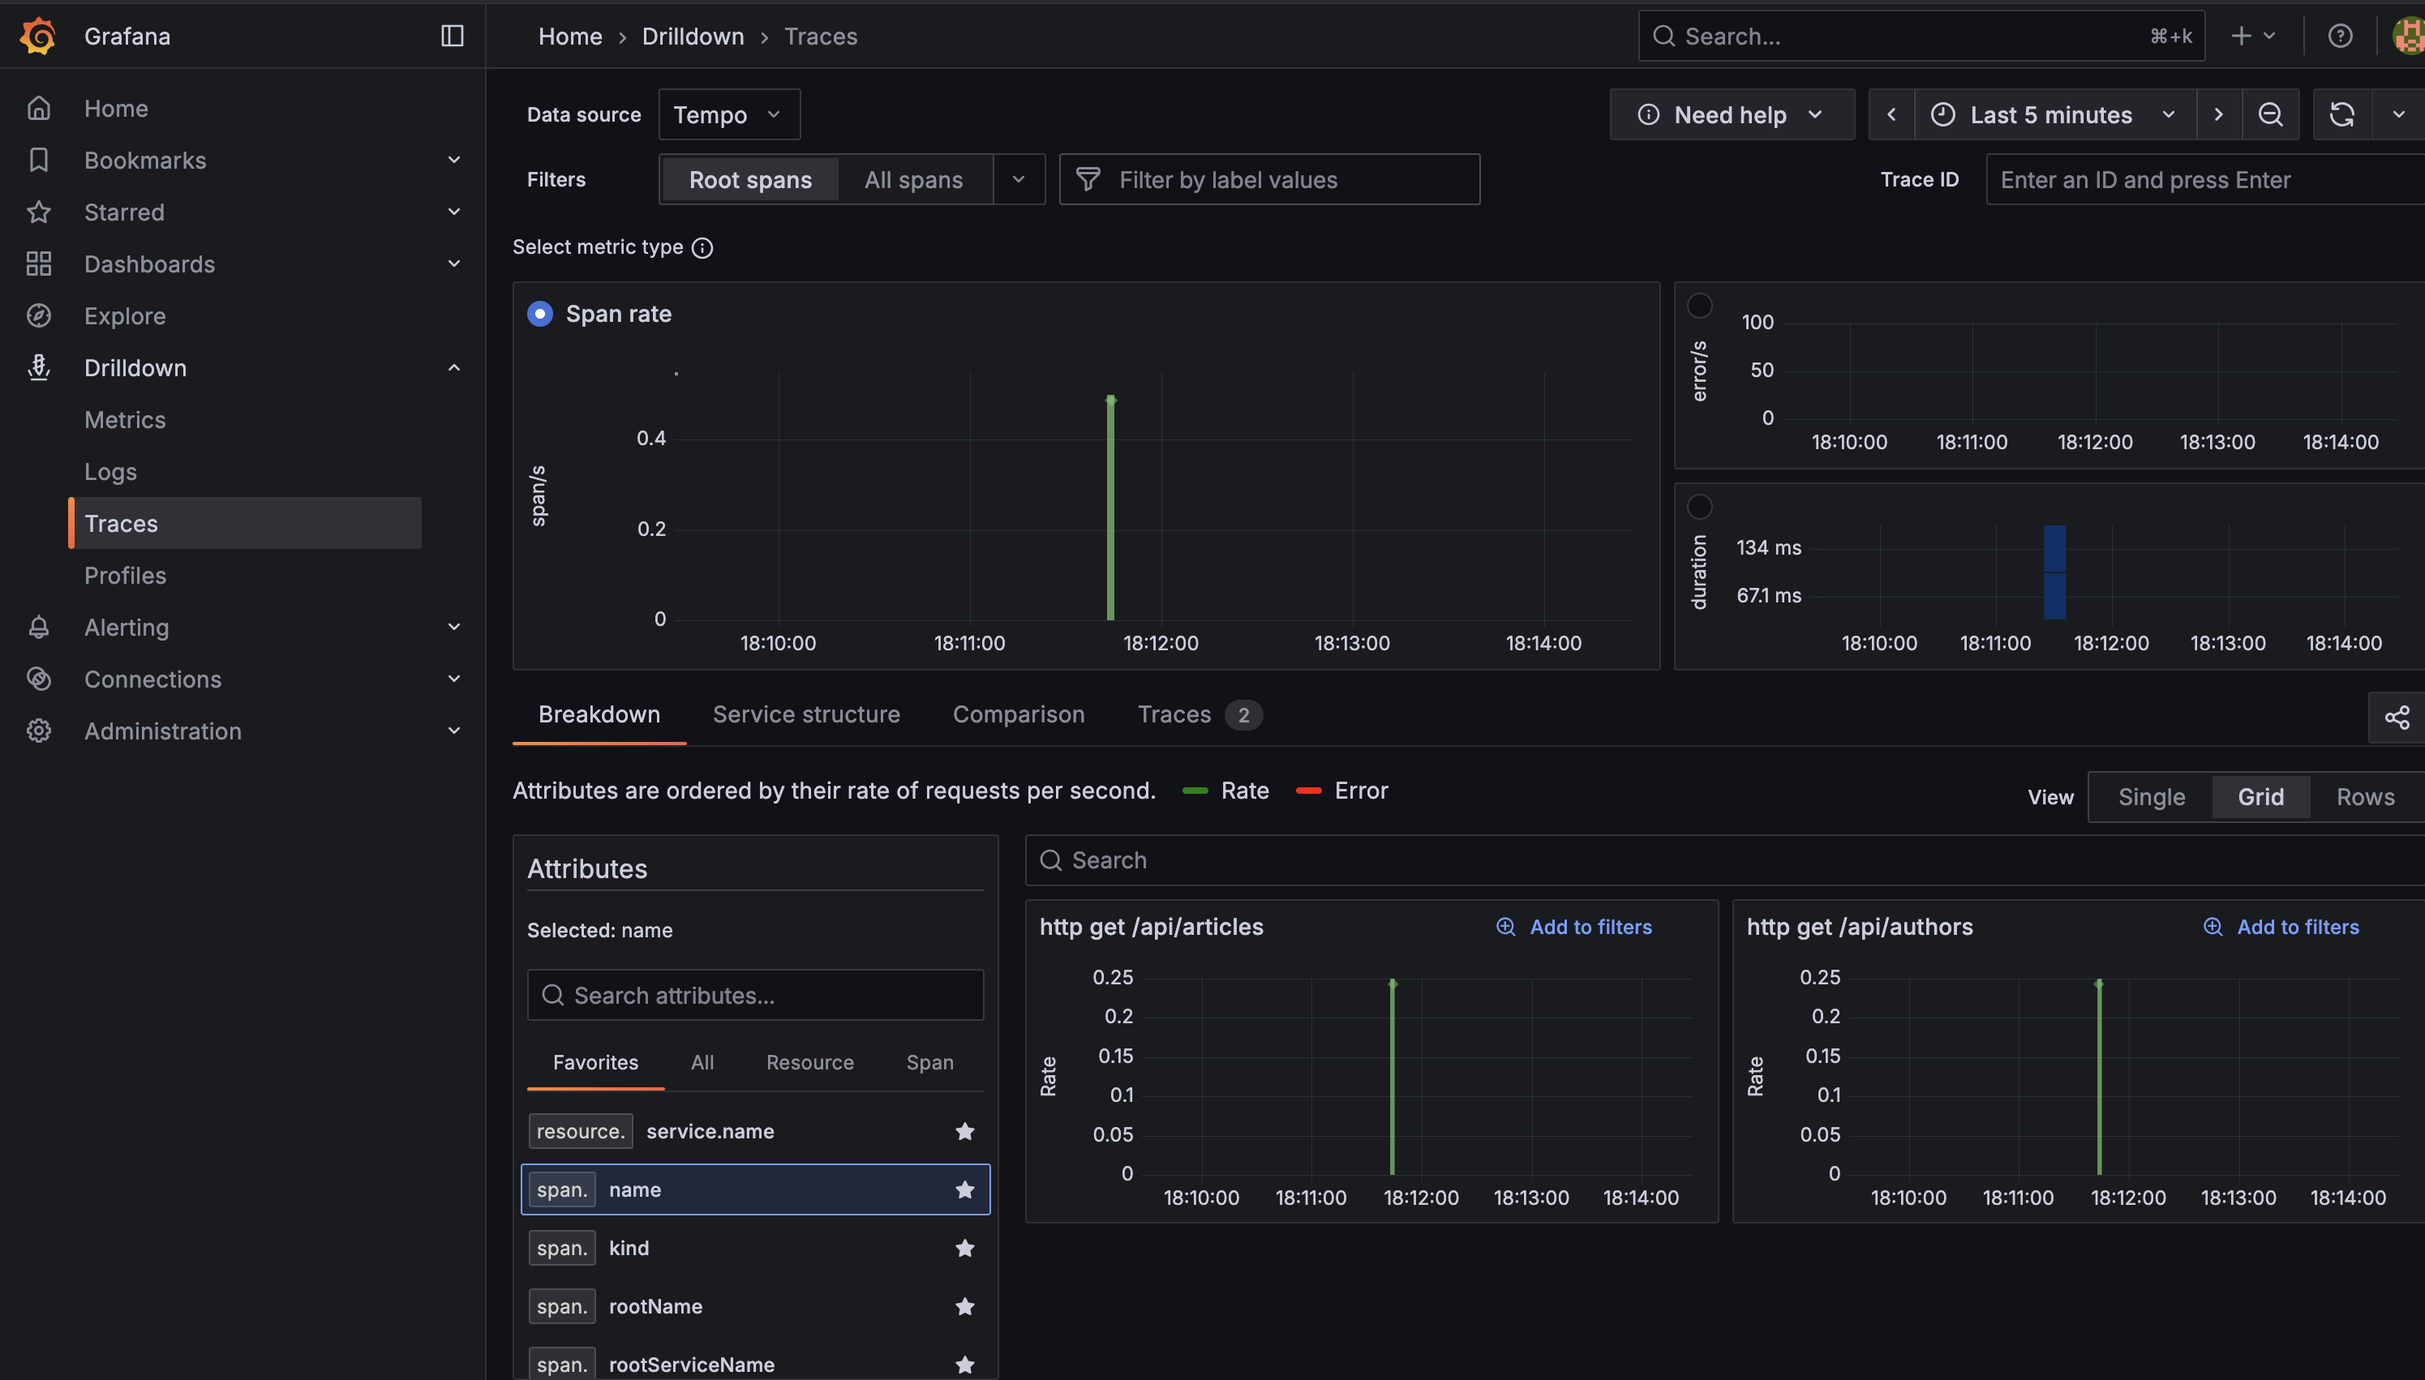
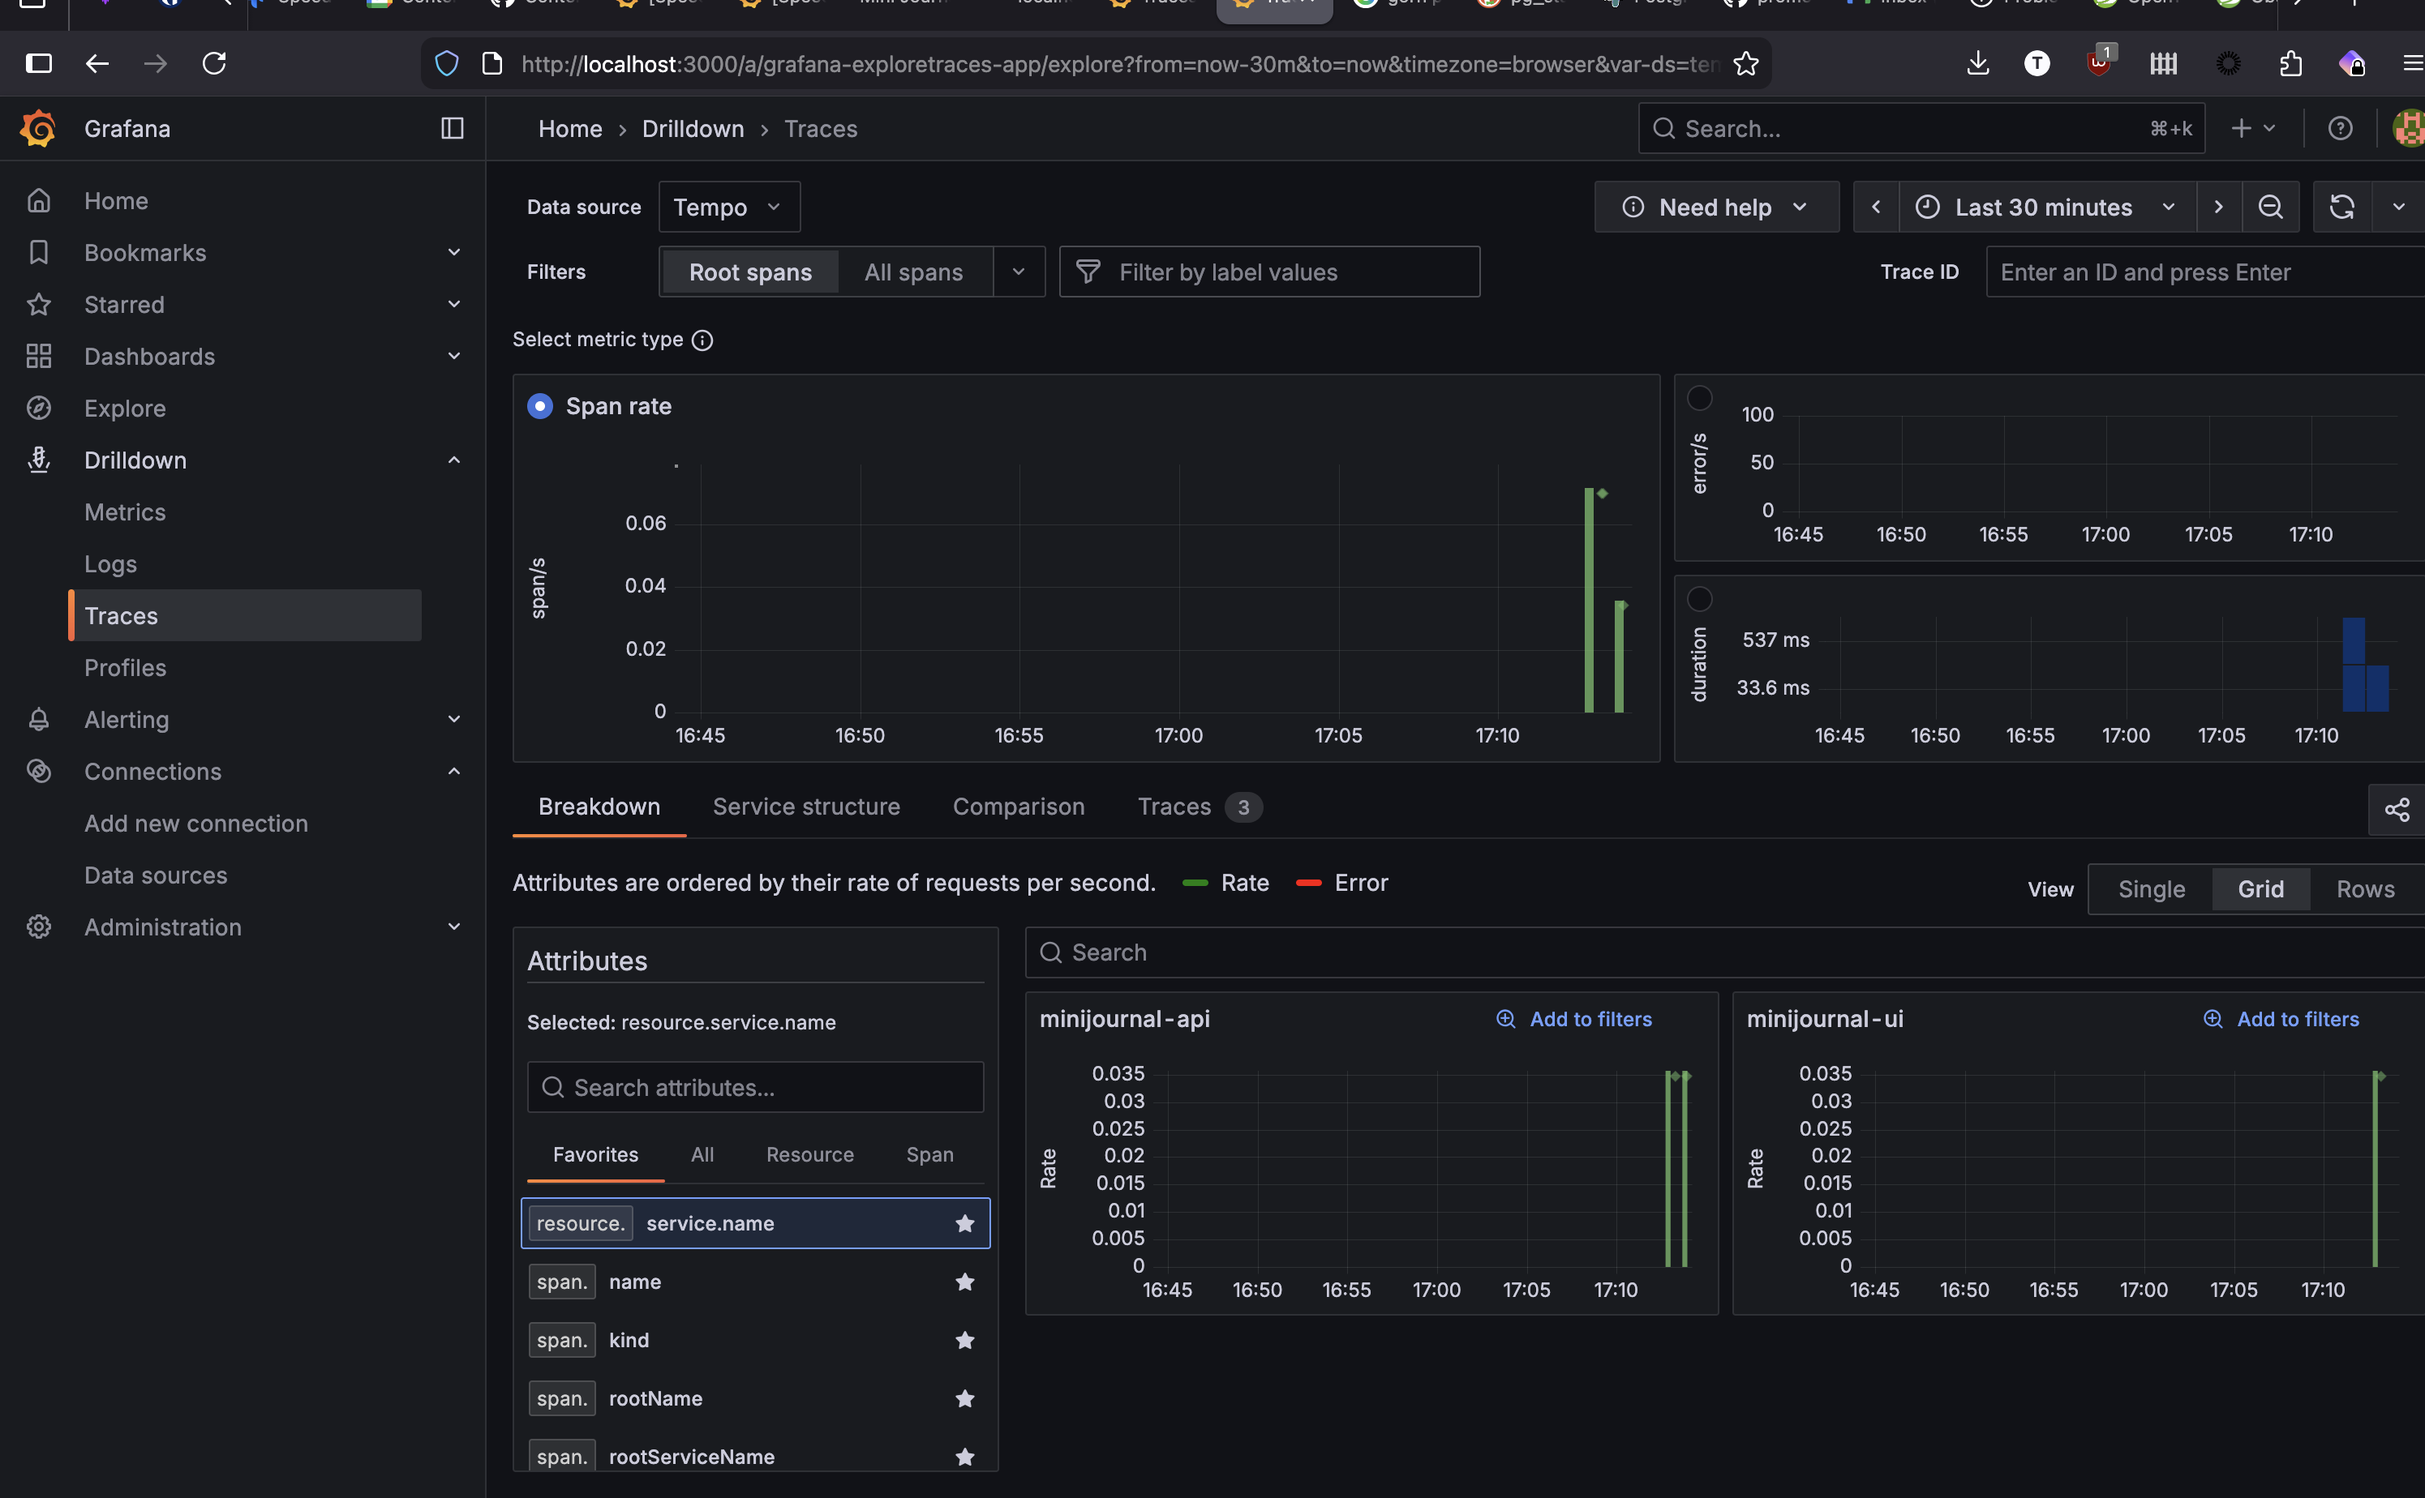
chore: cours sur open telemetry partie traces

diff --git a/ulco/m2/j2e/cours/spring/opentelemetry.md b/ulco/m2/j2e/cours/spring/opentelemetry.md
@@ -28,12 +28,15 @@ services:
 Ensuite, il faut dire à SpringBoot d'utiliser OpenTelemetry. Pour cela, il suffit d'ajouter la dépendance suivante.
 
 Éditer le fichier `build.gradle`, ajouter les dépendances suivantes.
+
 ```groovy
 implementation 'org.springframework.boot:spring-boot-starter-opentelemetry'
 implementation 'io.opentelemetry.instrumentation:opentelemetry-logback-appender-1.0:2.21.0-alpha'
+implementation 'net.logstash.logback:logstash-logback-encoder:7.4'
 ```
 
 Dans le fichier `src/main/resources/application.properties`, ajouter la configuration suivante.
+
 ```properties
 management.otlp.metrics.export.url=http://localhost:4318/v1/metrics
 ```
@@ -41,7 +44,7 @@ management.otlp.metrics.export.url=http://localhost:4318/v1/metrics
 Maintenant que tout est en place, il est temps de jouer un peu avec OpenTelemetry.
 Lancez votre application Spring Boot et accédez à Grafana à l'adresse `http://localhost:3000`.
 Utilisez les identifiants par défaut `admin` / `admin` pour vous connecter. Une fois connecté, vous pouvez aller dans
-l'onglet "Drilldown" pour voir les métriques de votre application. 
+l'onglet "Drilldown" pour voir les métriques de votre application.
 
 Vous pouvez voir l'onglet "Metrics" par défaut avec les métriques votre application et de la JVM.
 
@@ -55,7 +58,8 @@ Dans le fichier `src/main/resources/application.properties`, ajouter la configur
 management.opentelemetry.logging.export.otlp.endpoint=http://localhost:4318/v1/logs
 ```
 
-Modifier `src/main/resources/logback-spring.xml`, ajouter la configuration suivante pour envoyer des logs au format JSON à OpenTelemetry.
+Modifier `src/main/resources/logback-spring.xml`, ajouter la configuration suivante pour envoyer des logs au format JSON
+à OpenTelemetry.
 
 ```xml
 <?xml version="1.0" encoding="UTF-8"?>
@@ -125,16 +129,95 @@ D'abord une vue générale par service
 En appuyant sur "Show logs" vous pouvez voir une vue plus complète
 ![Complete vue](../images/grafana-log-zoomed.png)
 
-### Traces 
+### Traces
+
+#### Mise en place
+
+Pour activer les traces dans OpenTelemetry, ajouter la configuration suivante dans le fichier
+`src/main/resources/application.properties`.
+
 ```properties
 management.opentelemetry.tracing.export.otlp.endpoint=http://localhost:4318/v1/traces
+management.tracing.sampling.probability='1.0'
 ```
 
+![traces dans grafana](../images/grafana-traces.png)
+
+Vous pouvez cliquer sur une trace pour voir les détails. Vous devriez en voir pour chaque service que vous avez
+configuré.
+
+#### Debug avec les traces
+
+Attention, la suite ce base sur le projet `minijournal`.
+
+Nous allons jouer un peu avec ce module, afin de voir comment debug avec les traces.
+Pour cela, nous allons ajouter un endpoint qui retourne de temps en temps une erreur sur un appel HTTP.
+L'ojectif est de la voir apparaître dans notre UI. Puis ensuite, on ajoute un mécanisme de try pour que fix Spring
+l'auto fix.
+
+/!\ Quand vous utilisez des RestClient ou RestTemplate, il faut s'assurer qu'ils proviennent du contexte Spring. En
+effet, celui-ci ajouetera authematiquement les traces ID afin qu'ils soient dans le même contexte et donc tracable dans
+Grafana.
+
+Par exemple, dans `MiniJournalApiConfig.java, on se base sur le `RestClient.Builder` fourni par Spring.
+
+```java
+
+@Configuration
+public class MiniJournalApiConfig {
+
+    @Bean
+    public RestClient restClient(RestClient.Builder builder) {
+        return builder
+                .baseUrl("http://localhost:8080")
+                .build();
+    }
+
+}
+```
+
+On peut ensuite, trouver une trace dans l'UI (en clickant sur le petit bouton "log") et la trouver à travers les
+différentes applications.
+
+Vous pouvez également utiliser `@SpanTag` pour ajouter des tags personnalisés à vos spans.
+
+![trace zoomée](../images/grafana-trace-zoom.png)
+
+Ajouter maintenant un mécanisme de retry dans l'UI endpoint.
+
+### Metrics
+
+Vous pouvez ajouter des métriques personnalisées dans votre application Spring Boot en utilisant l'API OpenTelemetry.
+
+Activer metrics annotations et export dans le fichier `src/main/resources/application.properties`.
+```
+management.observations.annotations.enabled: true
+management.otlp.metrics.export.step: 10s
+```
+
+`@Counted` sur un endpoint pour compter le nombre d'appels.
+
+```java
+@Counted(value = "minijournal_api_articles_with_error_fetch_count", description = "Number of times articles with error endpoint was called")
+@GetMapping("/errors")
+public ResponseEntity<Collection<ArticleSummaryDTO>> getArticlesWithError(
+        @RequestParam(required = false) Collection<String> authorNames
+) {
+    // code
+}
+```
+Lancer quelques appels sur cet endpoint, puis aller dans Grafana pour voir la métrique.
 
 ## Resources
+
+OpenTelemetry
 
 - https://spring.io/blog/2025/11/18/opentelemetry-with-spring-boot
 - https://opentelemetry.io/docs/zero-code/java/agent/getting-started/
 - https://docs.spring.io/spring-boot/reference/actuator/observability.html
-- https://opentelemetry.io/docs/zero-code/java/spring-boot-starter/ 
+- https://opentelemetry.io/docs/zero-code/java/spring-boot-starter/
+
+Spring retry
+
+- https://www.baeldung.com/spring-retry
 
